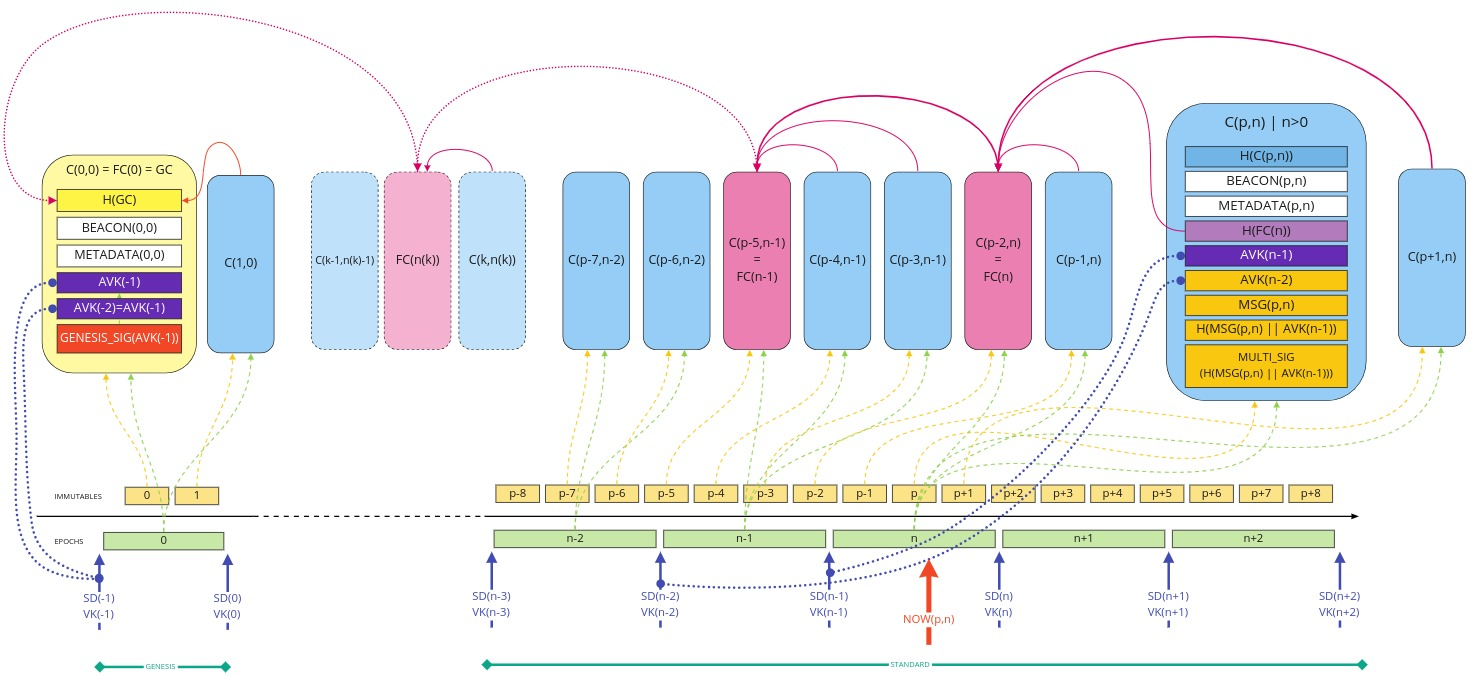
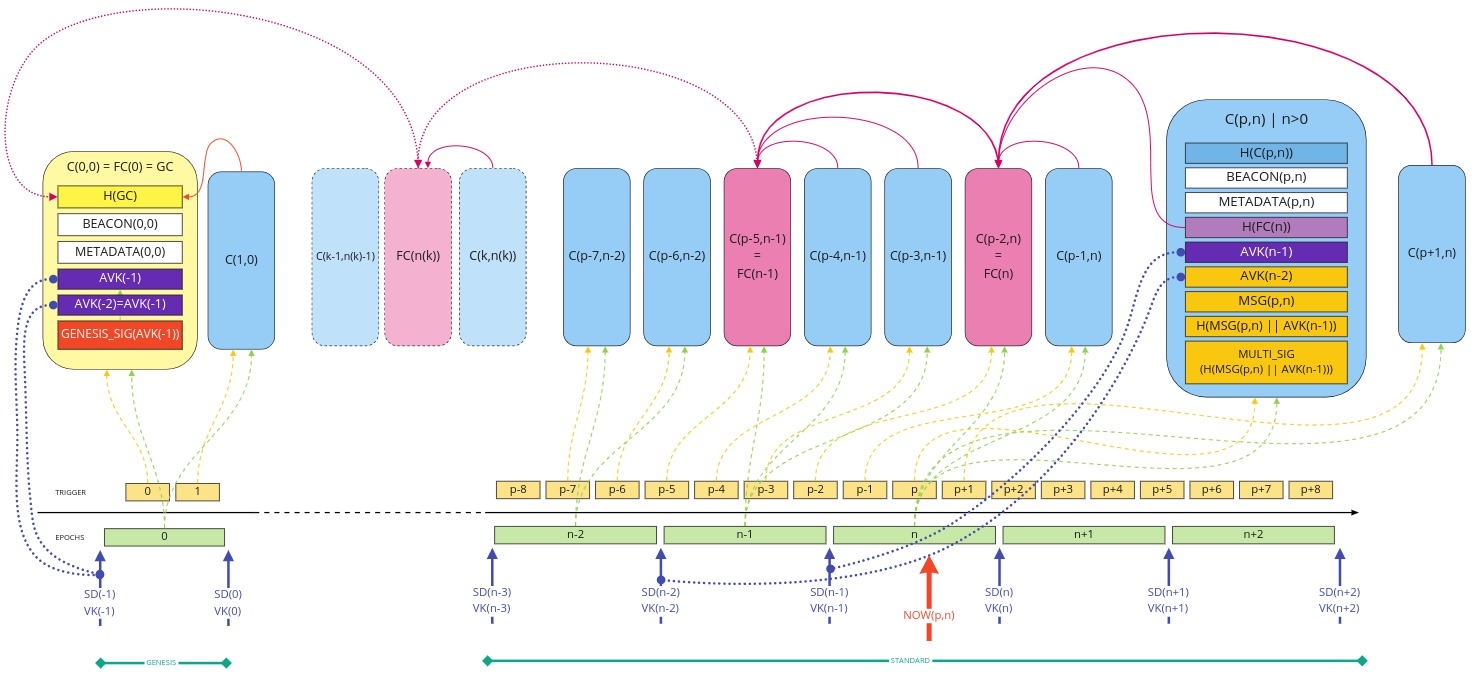
Enhance 'Certificate Chain' page

diff --git a/docs/root/mithril/mithril-protocol/certificates.md b/docs/root/mithril/mithril-protocol/certificates.md
@@ -1,127 +1,128 @@
 ---
 sidebar_position: 2
-sidebar_label: Certificate Chain
+sidebar_label: Certificate Chain in depth
 ---
 
 # Mithril Certificate Chain in depth
 
-(To be completed)
+## Introduction
 
-[![](images/certificate-chain.jpg)](images/certificate-chain.jpg)
+The **Mithril Protocol** can be summarized as:
 
-This document covers an open discussion on some important details required to
-build the certificates in general, and we give particular importance into how
-to create the certificate chain. More specifically, this document presents some
-ideas on the following topic:
+> A protocol that allows stakeholders in a Proof-of-Stake blockchain network to individually sign messages that are aggregated into a multi signature which guarantees that they represent a minimum share of the total stakes.
 
-* Role of the aggregator,
-* Certificate granularity,
-* Not collect enough signatures, and
-* How messages to be signed are obtained,
+The **stake distribution** that is used to create the multi signature can't be trusted "as is" and must also be signed. Indeed, any one could relatively easily create a **Fake Stake Distribution** and use it to produce a valid multi signature that would be embedded in a perfectly **Valid but Non Genuine Certificate**. This certificate could be served by a dishonest **Mithril Aggregator** node and thus could lead to restoring a non genuine snapshot by a honest **Mithril Client**.
 
-Open questions:
+In order to avoid this type of **eclipse attack**, the **stake distribution** used to create a multi signature must be certified beforehand. This is where the **Certificate Chain** takes place.
 
-* [ ] Define a rule to handle the case where we receive valid certificates for
-two different messages in a single "mithril epoch".
-* [ ] Define a rule to handle mithril skipping a full Cardano epoch. This is
-unlikelly, but we should define what to do in that case.
-* [ ] Is it an undesirable burden for users to produce themselves the message
-to be signed?
+## The Certificate Chain Design
 
-## Role of the aggregator
+:::danger
 
-What would happen if some aggregator claims not enough signatures were
-received? This doesn’t really matter, as there will be a different
-aggregator that will collect sufficient signatures and aggregate them
-into a valid certificate. Similarly, different aggregators might have
-different views of the signatures submitted (one aggregator might receive
-10 signatures, and a different one could receive 11), which would result
-in different certificates signing the same message. Again, this is not a
-problem, as long as they certify the same message (we should specify
-what to do if we receive more than one message signed in the same
-"mithril epoch").
+The **Stake Distribution** of an epoch is computed by the **Cardano Nodes** at the end of this epoch. It will be usable from the beginning of the following epoch.
 
-As a result, aggregator should not be responsible for distributing the
-snapshot. There should be a separate entity that receives aggregated
-certificates, and then distributes the snapshot.
+:::
 
-## Certificate granularity
+A way to certify the **stake distribution** used to create a multi signature is to verify that it has been previously signed in an earlier certificate. Then one can recursively verify that the earlier certificate is valid the same way. This process can be designed as a **Chain** of certificates: the **Mithril Certificate Chain**.
 
-There is no requirements on the certificate granularity. However, it is
-desirable that there always is _at least_ one certificate per new stake
-distribution. Given that in Cardano the stake distribution is updated at
-each epoch, we should aim towards guaranteeing one valid certificate per
-epoch. However, given that certificate generation is pseudorandom, there
-exists the possibility of skipping some certificates (we present below
-the probability of this happening). Therefore, having more than one
-certificate per epoch seems a good option, specially because when bootstrapping
-a new node, one only needs to verify one certificate per epoch.
+As multiple certificates may be created during the same epoch (i.e. with the same stake distribution), it is sufficient to link to only one certificate of the previous epoch: this will allow faster verification times and it will also avoid network congestion.
 
-Recall that when you are bootstrapping you only really care about the
-signature of the next stake distribution (and not about the state of the
-node). Therefore, if we have more than one certificate per epoch, when we
-are bootstrapping we don’t need to verify all these certificates. We only
-need to verify the certificates that certify the next stake distribution,
-and not those that maintain the distribution of the previous certificate.
-A node that is bootstrapping only really needs to verify the first
-certificate (or the last, really depends how we organise the message signed),
-of each different stake distribution, hence of each epoch. The other
-certificates are not required, as what a node is doing while bootstrapping
-is verifying the stake changes to be able to validate the next certificate.
-Therefore, even if we produce 10 certificates per epoch, when a node is
-bootstrapping it can verify one certificate per epoch, until the last one,
-where it verifies all existing certificates.
+Also, the certificate at the beginning of the **Certificate Chain** has a special role. This is the **Genesis Certificate**. The only way to validate the stake distributon embedded in the **Genesis Certificate** is to sign it with a private key that is associated to a broadly available public key: the **Genesis Keys**. These are the keys that sign the hard forks used during the era transitions of the Cardano Blockchain.
 
-## Not enough signatures
+Here is a diagram illustrating the **Certificate Chain** design:
+[![Certificate Chain Design](images/certificate-chain.jpg)](images/certificate-chain.jpg)
 
-As mentioned above, the creation of certificates is pseudorandom, so we
-might find ourselves in a situation where the submitted signatures are not
-enough. As presented in the paper, the goal is to make the probability of this
-happening as small as possible, while guaranteeing that an adversary will not
-be able to generate invalid certificates. Table 2 of the paper is interesting
-to discuss this (it shows required values of k, n so that an adversarial
-quorum is formed with P ≤ 2 ^{−128}). The table shows different values, but if
-we take for instance φ(.55), and assume adversarial stake of 40%, the
-probability of reaching a quorum is 99.999% (assuming adversarial stake does not
-participate). If we consider an adversarial stake of 33%, then with φ(.60) we
-would reach a quorum with probability of 99.667%. We can also think of adversarial
-stake as nodes which are not available.
-Nonetheless, what to do when these events happen, and we don’t have a certificate.
-The paper mentions the possibility of using a counter:
-"_if the probability of an honest quorum remains significant it can be boosted by
-allowing retries (e.g by attaching a short counter to the message)_".  
-However, there would also be the possibility of skipping a certificate, and
-signing the next one. The probabilities of not reaching a quorum are so small
-that it is unlikely that we will skip several blocks in a row. Skipping one (or
-even a few) block is not problematic (as long as we have one per epoch, in the
-opposite case we should reconsider what to do, as this becomes a bit uglier wrt
-long range attacks).
+Where the following notations have been used:
 
-The other mitigation approach is to have a sort of hybrid parametrization, where
-we would run a big (k,m) pair and a small one at the same time.
-If aggregators can find enough signatures in the small param set, they prefer
-that, if not they use the larger params. Might be clunkier for rewards though.
+* `C(p,n)`: Certificate at trigger `p` and epoch `n`
+* `FC(n)`: First Certificate of epoch `n`
+* `GC`: Genesis Certificate
+* `H()`: Hash
+* `SD(n)`: Stake Distribution of epoch `n`
+* `VK(n)`: Verification Key at epoch `n`
+* `AVK(n)`: Aggregrate Verification Key at epoch `n` such as `AVK(n) = MKT_ROOT(SD(n) || VK(n))`
+* `MKT_ROOT()`: Merkle-tree root
+* `BEACON(p,n)`: Beacon at trigger `p` and epoch `n`
+* `METADATA(p,n)`: Metadata of the certificate at trigger `p` and epoch `n`
+* `MSG(p,n)`: Message of the certificate at trigger `p` and epoch `n`
+* `MULTI_SIG(p,n)`: Multi signature created to the message `H(MSG(p,n) || AVK(n-1))`
+* `GENESIS_SIG(MSG)`: Genesis Signature, i.e. signature of `MSG` with the Genesis Keys
 
-### Signers know if not enough signatures were reached
+The hash of a **Certificate** `H(C(p,n))` is computed as the concatenation (`||`) of all its fields. Therefore, if one field is modified, its hash is different.
 
-If we allow signers to also be aggregators, and therefore listen and accumulate
-signatures, then they will know how many are being received and whether the
-quorum is being reached or not. If we use the index solution proposed above,
-a signer could get a grasp of whether the quorum is going to be reached or not, and start
-trying with the next index. If we don’t follow the index solution, then signers don’t really
-care whether the quorum was reached or not, they simply proceed with the next signature.
+The informations embedded in the `METADATA(p,n)` field are:
 
-## How messages are obtained
+* The version of the Mithril Protocol
+* The parameter of the Mithril Protocol (`k`, `m`, and `phi_f`)
+* The date and time at which the multi signature creation was initiated
+* The date and time at which the Certificate was sealed
+* The list of the signers that actively contributed to the multi signature
 
-The message to be signed is chosen by the signer itself. It is not received
-externally. If I’m a signer, I should have sufficient information to select
-what message I need to sign--this is, the stake distribution and aggregate key,
-and the state of the node at the block number for which we are producing a
-signature. Given that choosing the message is a deterministic procedure,
-all honest nodes will generate a signature for the same message. Following
-this, there is no room for adversaries to request signatures for adversarial
-messages, nor the need for signers to validate the message to be signed.
+The message `MSG(p,n)` is a map of multiple values associated with their respective keys and provides a way to add more informations in the certificates without breaking the chain itself. These can be any message that the signers are able to compute deterministically thanks to the Cardano consensus: an immutable files snapshot, the Utxo set, the stahe distribution, ...
 
-To guarantee that users have the same view of what is being signed, the
-snapshots are created past _k_ blocks (security parameter), which already
-gives high guarantees we have reached consensus.
+:::note
+
+The **trigger** represents the instant at which a certificate should be created. It is combined, with at least the associated **epoch** to create the [**Beacon**](../../glossary.md#beacon) of the certificate. In the current implementation, this trigger is a new [**Immutable File Number**](../../glossary.md#immutable-file-number). The epoch creation and the trigger creation processes may be uncorrelated.
+
+:::
+
+:::info
+
+The `AVK` or **Aggregate Verification Key** is the root of the Merkle-tree where each leaf is filled with `H(STAKE(signer) || VK(signer))`. It represents the corresponding **Stake Distribution** in a condensed way.
+:::
+
+## The Verification Algorithm
+
+The **Certificate Chain** verification can be stated as:
+
+```
+CHAIN_VERIFY[C(p,n(p))] = CERT_VERIFY[C(p,n(p)] ^ CERT_VERIFY[FC(n(p))] ^ CERT_VERIFY[FC(n(p)-1)] ^ ... ^ CERT_VERIFY[FC(1)] ^ CERT_VERIFY[GC]
+```
+
+Where the following notations have been used:
+
+* The epoch `n(p)` depends on the trigger `p`
+* `CHAIN_VERIFY[]`: Verify all the chain backward from a certificate
+* `CERT_VERIFY[]`: Verify a specific certificate
+
+A **Certificate Chain** is valid if from a **Certificate**, up to the **Genesis Certificate** of the chain there is at least one valid certificate per epoch.
+
+A non **Genesis Certificate** is valid **if and only if** the `AVK` used to verify the multi signature is also part of the signed message used to create a valid multi signature in a previously sealed Certificate.
+
+The **Genesis Certificate** is valid **if and only if** its **Genesis Signature** is verified with the advertised **Public Genesis Key**.
+
+An implementation of the algorithm would work as follows for a certificate:
+
+* **Step 1**: Use this certificate as the `current_certificate`
+* **Step 2**: Verify (or fail) that the `current_hash` of the `current_certificate` is valid (by computing it and comparing with the `hash` field of the certificate)
+* **Step 3**: Get the `previous_hash` of the `previous_certificate` by reading its value in the `current_certificate`
+* **Step 4**: Verify (or fail) that the `multi_signature` of the `current_certificate` is valid
+* **Step 5**: Retrieve the `previous_certificate` that has the hash `previous_hash`:
+  * **Step 5.1**: If it is not a `genesis_certificate`:
+    * **Step 5.1.1**: Verify (or fail) that the `previous_hash` of the `previous_certificate` is valid (by computing it and comparing with the `hash` field of the certificate)
+    * **Step 5.1.2**: Verify (or fail) that the `current_avk` of the `current_certificate` is part of the message signed by the multi signature of the `previous_certificate`
+    * **Step 5.1.3**: Verify (or fail) that the `multi_signature` of the `previous_certificate` is valid
+    * **Step 5.1.4**: Use the `previous_certificate` as `current_certificate` and start again at **Step 2**
+  * **Step 5.2**: If it is a `genesis_certificate`:
+    * **Step 5.2.1**: Verify (or fail) that the `previous_hash` of the `previous_certificate` is valid (by computing it and comparing with the `hash` field of the certificate)
+    * **Step 5.2.2**: Verify (or fail) that the `current_avk` of the `current_certificate` is part of the message signed by the genesis signature of the `previous_certificate`
+    * **Step 5.2.3**: The certificate is valid (Success)
+
+## The coexistence of multiple Certificate Chain
+
+What would happen if some **Mithril Aggregator** claims that not enough signatures were received? This doesn’t really matter, as there will be a different **Mithril Aggregator** that would collect sufficient signatures and aggregate them into a valid Certificate.
+
+Similarly, different **Mithril Aggregators** might have different views of the **individual signatures** submitted (one aggregator might receive 10 signatures, and a different one could receive 11), which would result in different **Certificates** signing the same message.
+
+This would result in different **Certificate Chains** that would all link back to the **Genesis Certificate**. Indeed they would be represented by a tree of certificates where each traversal path from the root to a leave represent a valid **Certificate Chain**.
+
+## The need of backward compatibility
+
+The **Certificate Chain** is designed to last. At a certain point, we will need to handle the verification of the multi signature from legacy versions of the **Mithril** cryptographic library.
+
+In order to achieve this backward compatibility, some options are available:
+
+* Handle multi signature verification functions of legacy versions
+* Recreate Genesis Certificates from time to time
+* Create intermediate **Milestones Certificates** (with both a multi signature and a genesis signature)
+* Design a format migration algorithm
